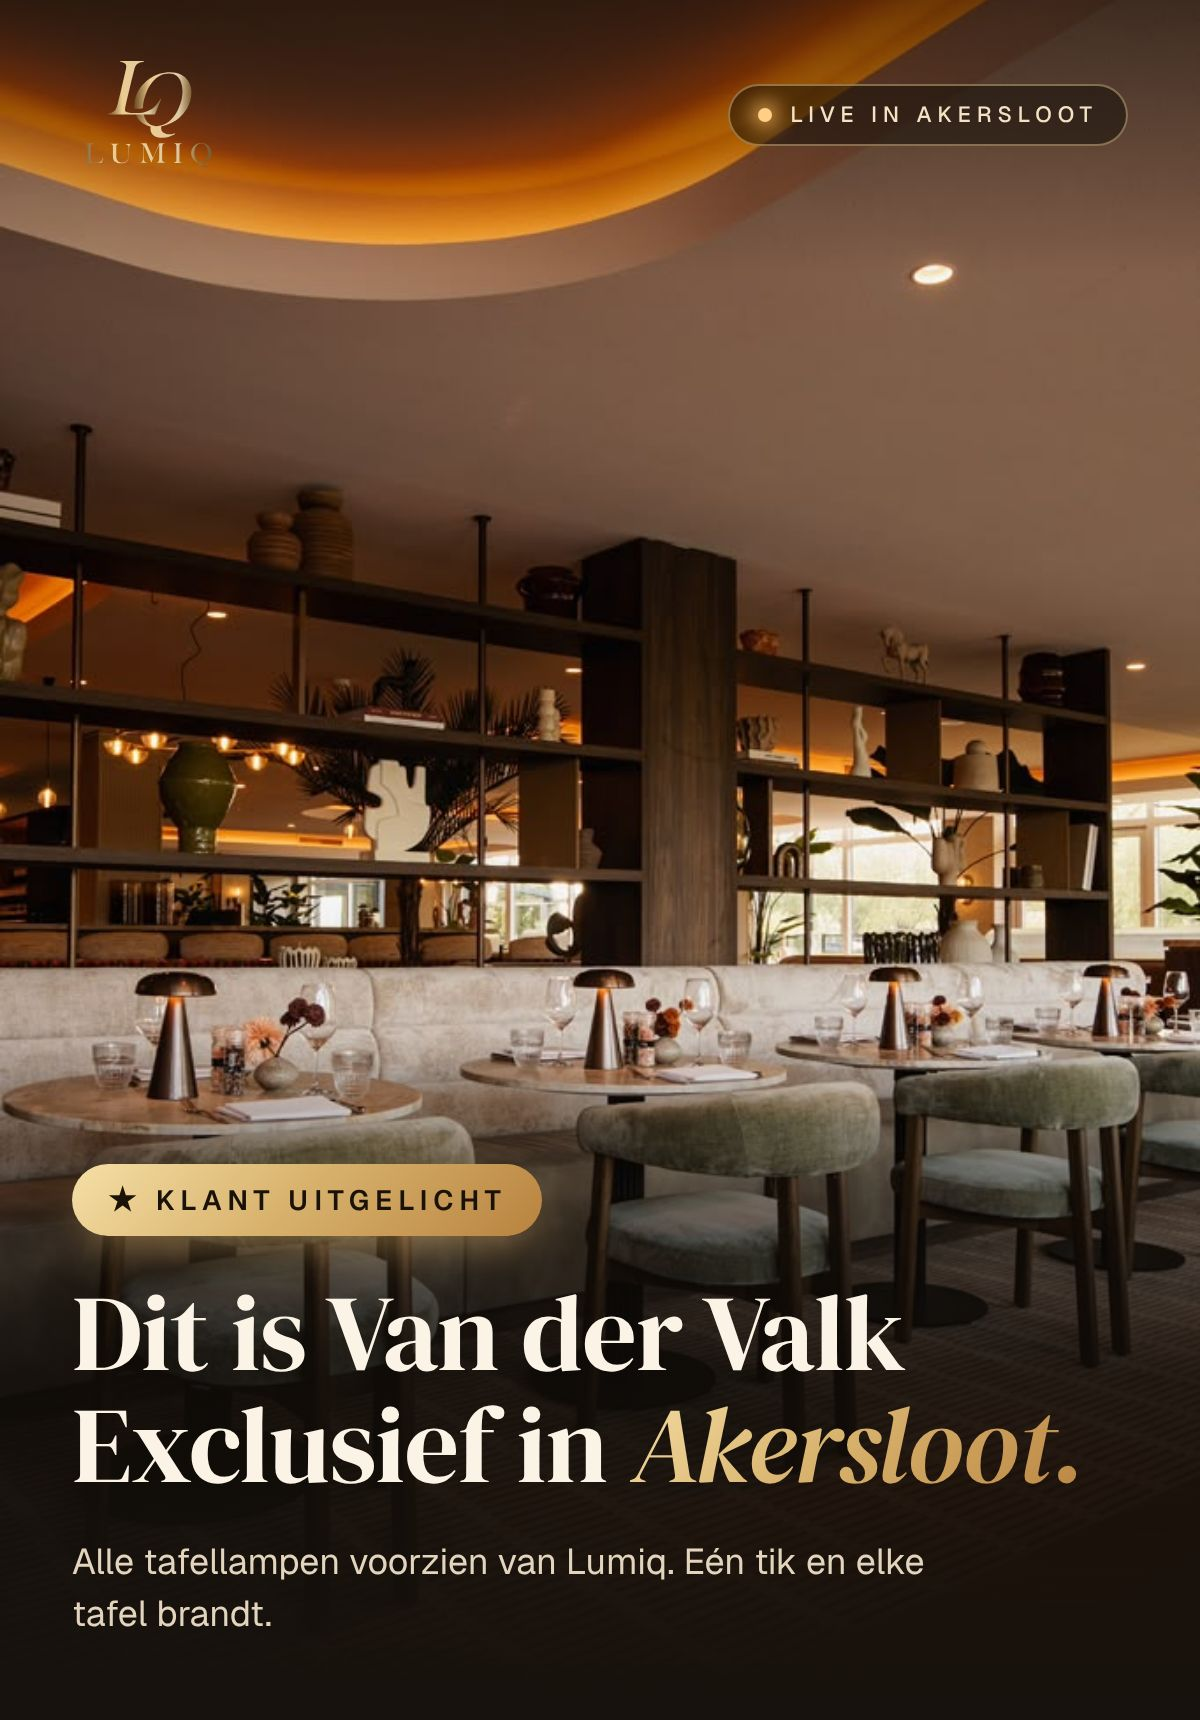
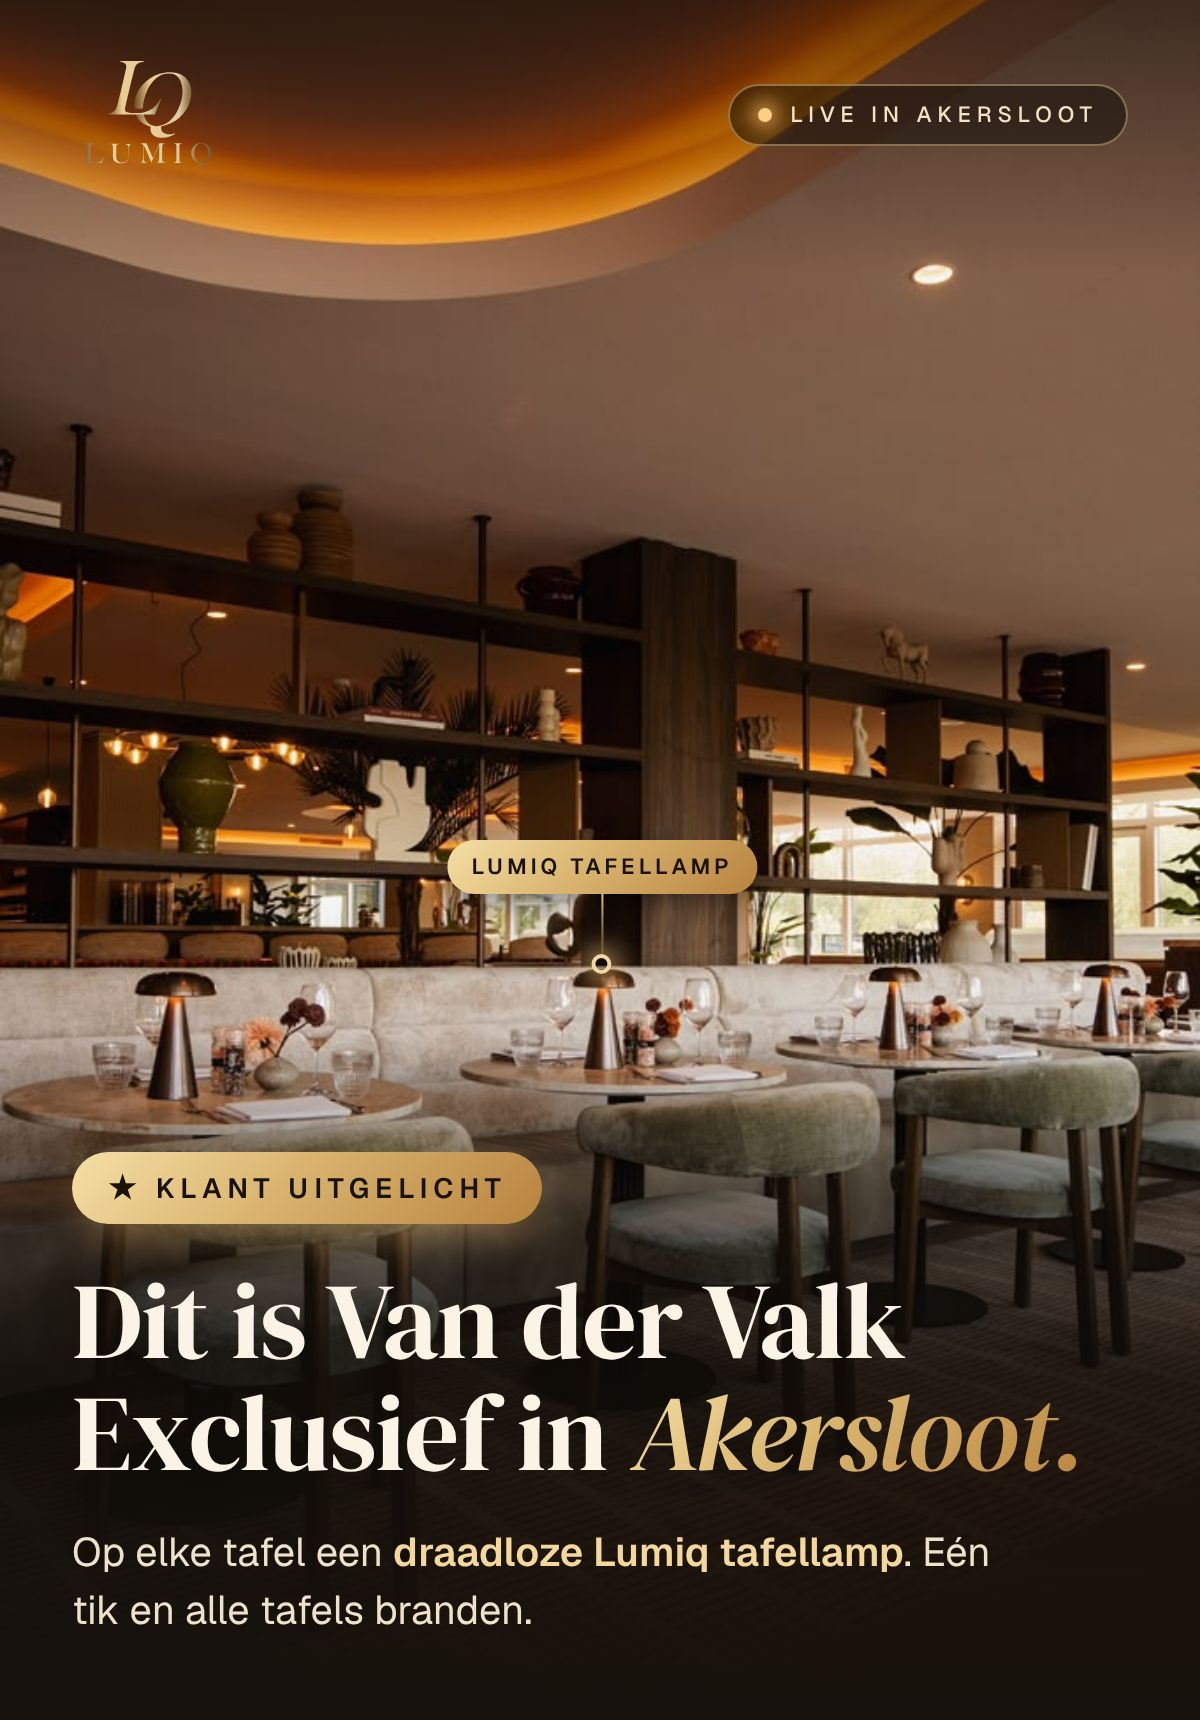
Verkoopmail: hero duidelijker over tafellampen (callout + subregel)
Claude-Session: https://claude.ai/code/session_01Rg5urhuccQdpdmGCYnhwao

Changed region(s): [[0.0617, 0.6471, 0.8942, 0.8628], [0.0617, 0.8936, 0.8325, 0.9552], [0.37, 0.4622, 0.6475, 0.5855]]

diff --git a/public/mail/klant-uitgelicht-vdv.html b/public/mail/klant-uitgelicht-vdv.html
@@ -29,7 +29,7 @@
 
   <!-- 1. hero met hook -->
   <tr><td style="padding:0;line-height:0">
-    <a href="https://lumiqstore.com/benieuwd/?utm_source=mail-vdv"><img src="https://lumiqstore.com/media/vdv-mail-hero.jpg" width="600" alt="Klant uitgelicht: dit is Van der Valk Exclusief in Akersloot. Alle tafellampen voorzien van Lumiq." style="width:100%;max-width:600px;height:auto"></a>
+    <a href="https://lumiqstore.com/benieuwd/?utm_source=mail-vdv"><img src="https://lumiqstore.com/media/vdv-mail-hero.jpg" width="600" alt="Klant uitgelicht: dit is Van der Valk Exclusief in Akersloot. Op elke tafel een draadloze Lumiq tafellamp." style="width:100%;max-width:600px;height:auto"></a>
   </td></tr>
 
   <!-- CTA bovenin -->
